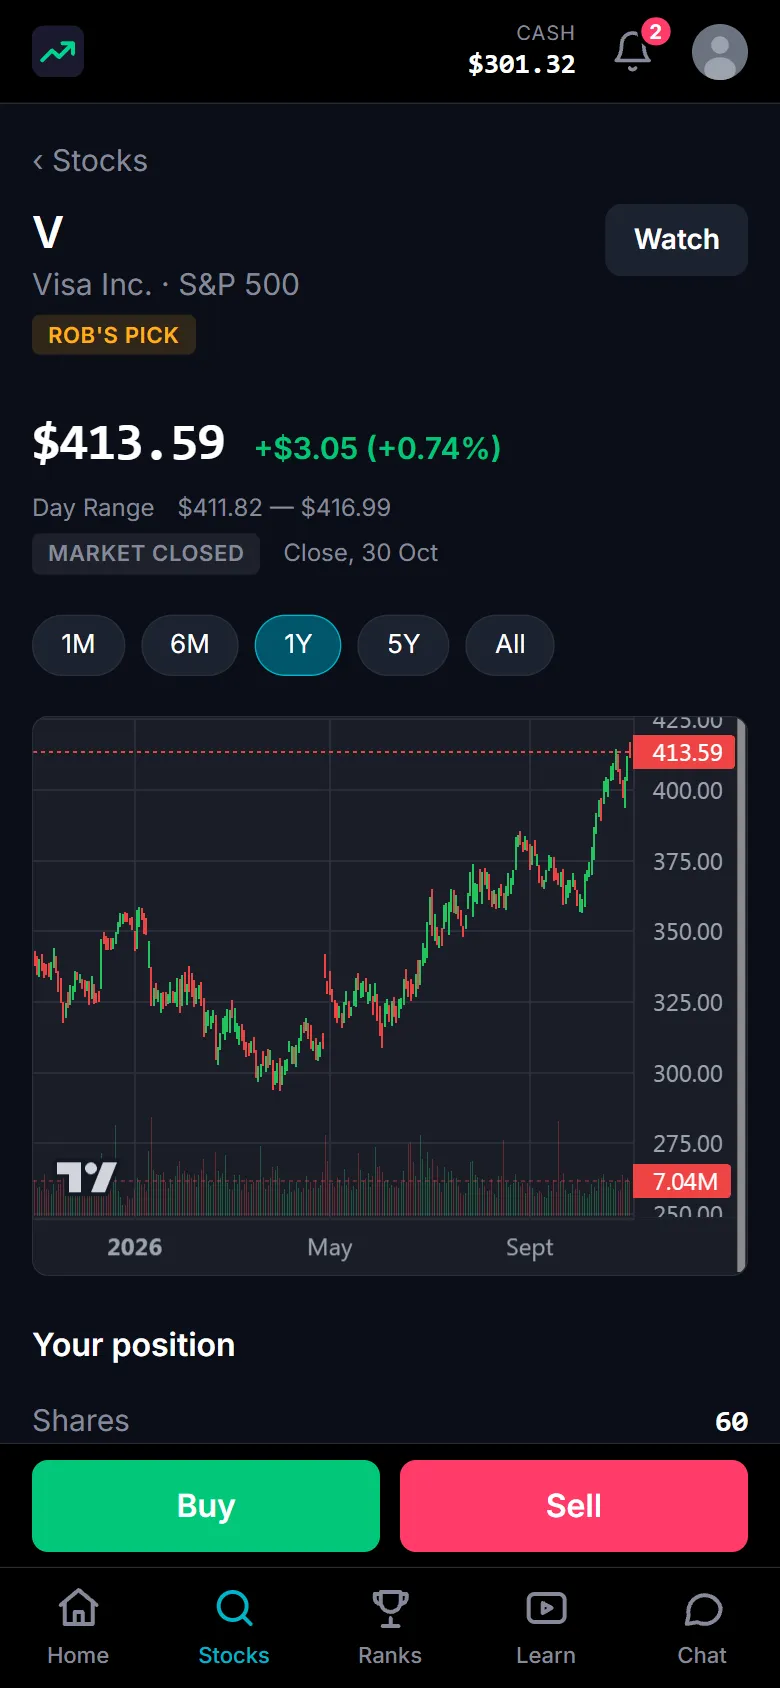
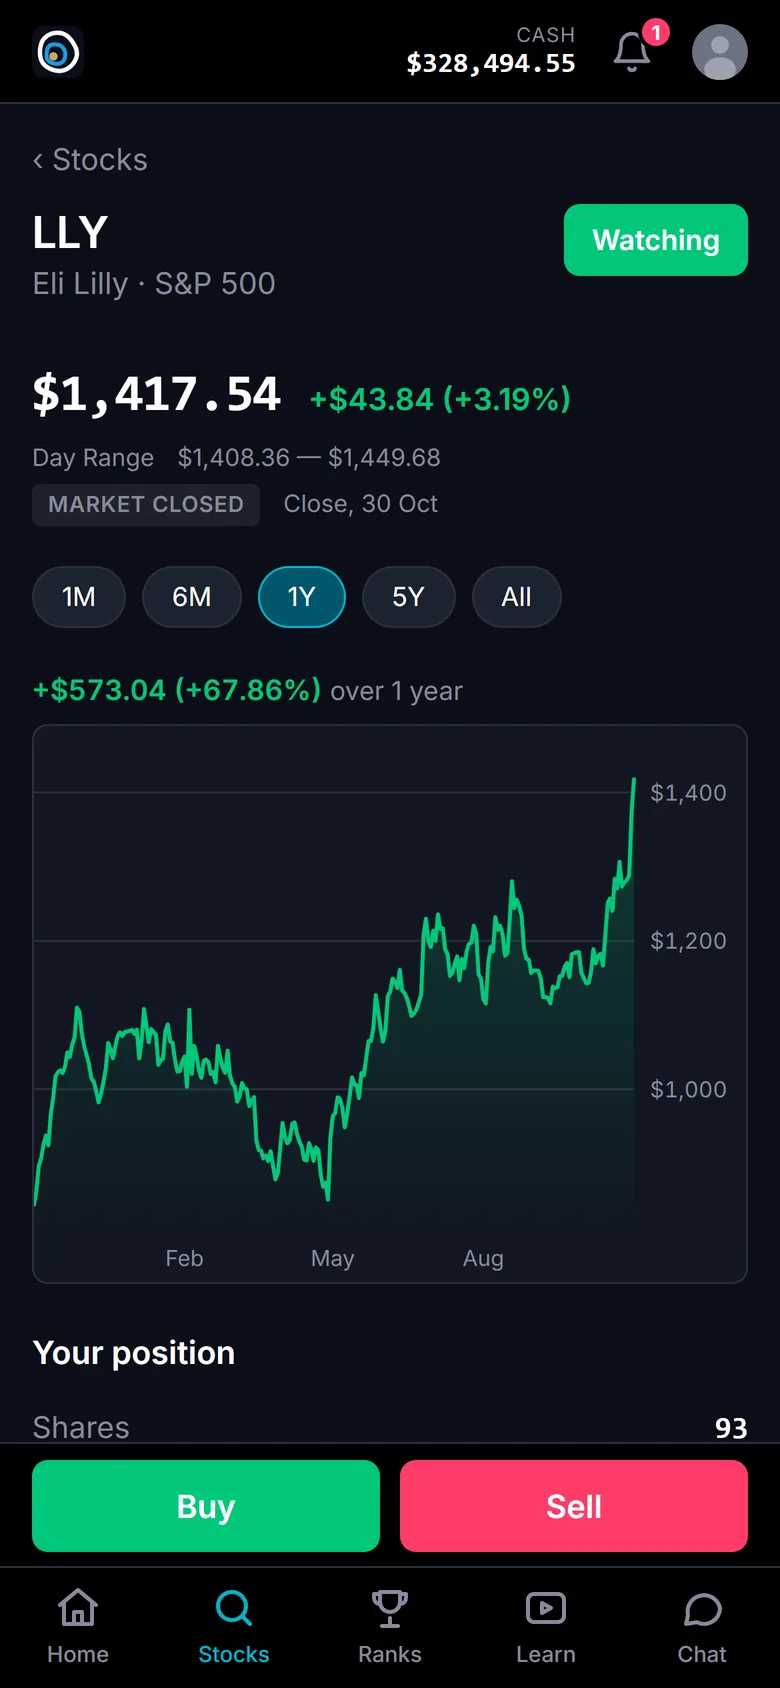
Add a link preview card and new sign-in screenshots
- Link previews: a 1200x630 card (docs/brand/og.html, rendered to
  static/img/og.jpg by render-og.ps1), with a page description, Open Graph
  and X card tags in base.html. absURL makes og:image a full URL from
  BASE_URL. A shared link to the sign-in page is titled just
  "The Investor Project".
- Sign-in page: the two phone screenshots showed the old logo and the
  candle chart; replaced with the tour video's current screens.

diff --git a/docs/brand/og.html b/docs/brand/og.html
@@ -1,0 +1,71 @@
+<!DOCTYPE html>
+<!-- The link preview card (og:image), 1200 x 630. render-og.ps1 screenshots
+     it into static/img/og.jpg. The wording follows the sign-in page's hero. -->
+<html lang="en">
+<head>
+<meta charset="UTF-8">
+<style>
+  @font-face {
+    font-family: "Inter";
+    font-weight: 100 900;
+    src: url("../../static/fonts/inter-latin-var-5.2.8.woff2") format("woff2");
+  }
+  * { margin: 0; padding: 0; box-sizing: border-box; }
+  html, body { width: 1200px; height: 630px; overflow: hidden; }
+  body {
+    position: relative;
+    background: radial-gradient(900px 600px at 85% 30%, #0f2347 0%, #0A0E17 60%);
+    color: #fff;
+    font-family: "Inter", sans-serif;
+  }
+  .chart { position: absolute; left: 0; right: 0; bottom: 0; width: 1200px; height: 300px; }
+  .chart .line { fill: none; stroke: #02C77A; stroke-width: 5; stroke-linejoin: round; stroke-linecap: round; opacity: .55; }
+  .chart .candles path { stroke: #2a3346; stroke-width: 3; }
+  .chart .candles rect { fill: #1b2333; }
+  .mark { position: absolute; right: 96px; top: 92px; width: 340px; height: 340px; }
+  .text { position: absolute; left: 80px; top: 92px; width: 680px; }
+  .tag { font-size: 26px; font-weight: 600; letter-spacing: .14em; text-transform: uppercase; color: #199ce4; }
+  h1 { margin-top: 18px; font-size: 84px; line-height: 1.02; font-weight: 800; letter-spacing: -0.03em; }
+  .head { margin-top: 26px; font-size: 36px; line-height: 1.25; font-weight: 600; color: #d6dae4; }
+  .head span { color: #02C77A; }
+  .facts { position: absolute; left: 80px; bottom: 70px; display: flex; gap: 18px; }
+  .fact { padding: 14px 22px; border-radius: 14px; background: rgba(17, 23, 34, .88); border: 1px solid #253047; font-size: 24px; font-weight: 600; color: #fff; }
+  .fact b { color: #02C77A; font-weight: 700; }
+  .url { position: absolute; right: 96px; bottom: 82px; font-size: 26px; font-weight: 600; color: #878A9B; }
+</style>
+</head>
+<body>
+  <svg class="chart" viewBox="0 0 1200 300" preserveAspectRatio="none" aria-hidden="true">
+    <defs>
+      <linearGradient id="fill" x1="0" y1="0" x2="0" y2="1">
+        <stop offset="0" stop-color="#02C77A" stop-opacity=".18"/>
+        <stop offset="1" stop-color="#02C77A" stop-opacity="0"/>
+      </linearGradient>
+    </defs>
+    <g class="candles">
+      <path d="M560 210v60M640 190v60M720 170v60M800 175v55M880 140v60M960 130v55M1040 100v60M1120 80v55"/>
+      <rect x="552" y="225" width="16" height="30"/><rect x="632" y="205" width="16" height="30"/>
+      <rect x="712" y="185" width="16" height="32"/><rect x="792" y="188" width="16" height="26"/>
+      <rect x="872" y="155" width="16" height="32"/><rect x="952" y="145" width="16" height="28"/>
+      <rect x="1032" y="115" width="16" height="32"/><rect x="1112" y="95" width="16" height="28"/>
+    </g>
+    <path d="M0 285L120 262L220 272L340 236L440 248L560 205L660 218L780 170L880 184L1000 120L1090 132L1200 70V300H0Z" fill="url(#fill)"/>
+    <path class="line" d="M0 285L120 262L220 272L340 236L440 248L560 205L660 218L780 170L880 184L1000 120L1090 132L1200 70"/>
+  </svg>
+
+  <img class="mark" src="mark-dark.svg" alt="">
+
+  <div class="text">
+    <p class="tag">Trade &bull; Learn &bull; Grow</p>
+    <h1>The Investor<br>Project</h1>
+    <p class="head">Build real skills.<br>Play for a <span>brighter future.</span></p>
+  </div>
+
+  <div class="facts">
+    <div class="fact"><b>$1M</b> play money</div>
+    <div class="fact">Real <b>S&amp;P 500</b> prices</div>
+    <div class="fact"><b>0%</b> real risk</div>
+  </div>
+  <p class="url">investorproject.au</p>
+</body>
+</html>

diff --git a/templates/layouts/base.html b/templates/layouts/base.html
@@ -11,6 +11,20 @@
     <link rel="apple-touch-icon" sizes="180x180" href="/static/apple-touch-icon.png">
     <link rel="manifest" href="/static/site.webmanifest">
     <meta name="theme-color" content="#000000">
+    <!-- Link previews (Facebook, WhatsApp, X, LinkedIn, iMessage). The card is
+         drawn by docs/brand/og.html; render-og.ps1 remakes it. -->
+    <meta name="description" content="A free share trading game with $1 million in play money and real S&amp;P 500 prices, plus videos, courses and live Q&amp;A with Rob Goudie of Consortium Private Wealth.">
+    <meta property="og:type" content="website">
+    <meta property="og:site_name" content="The Investor Project">
+    {{/* The sign-in page is what a shared link to the site opens, so its card
+         says only the site's name. */}}
+    <meta property="og:title" content="{{if and .Title (ne .Title "Sign in")}}{{.Title}} - {{end}}The Investor Project">
+    <meta property="og:description" content="A free share trading game with $1 million in play money and real S&amp;P 500 prices, plus videos, courses and live Q&amp;A with Rob Goudie.">
+    <meta property="og:image" content="{{absURL (asset "img/og.jpg")}}">
+    <meta property="og:image:width" content="1200">
+    <meta property="og:image:height" content="630">
+    <meta property="og:image:alt" content="The Investor Project: build real skills, play for a brighter future. $1M play money, real S&amp;P 500 prices, 0% real risk.">
+    <meta name="twitter:card" content="summary_large_image">
     <!-- Inter is served from here and preloaded, so it's in place before the
          first paint and text never changes width as it arrives. The
          @font-face is inline so its URL carries the same hash as the preload. -->

diff --git a/internal/handler/templates.go b/internal/handler/templates.go
@@ -5,6 +5,7 @@ import (
 	"fmt"
 	"html/template"
 	"io/fs"
+	"os"
 	"path"
 	"strings"
 	"time"
@@ -46,6 +47,15 @@ func RegisterAvatarPath(id int64, path string) {
 func LoadTemplates(fsys fs.FS, static *Static) (PageTemplates, error) {
 	funcMap := template.FuncMap{
 		"asset": static.URL,
+		// absURL turns a site path into a full URL, for tags read off the
+		// site (og:image), where a relative path doesn't work.
+		"absURL": func(p string) string {
+			base := strings.TrimRight(os.Getenv("BASE_URL"), "/")
+			if base == "" {
+				base = "https://investorproject.au"
+			}
+			return base + p
+		},
 		"cents": func(v any) string {
 			switch val := v.(type) {
 			case int64:

diff --git a/CLAUDE.md b/CLAUDE.md
@@ -2,7 +2,7 @@
 
 **Path:** `C:\Projects\go\game`
 **Purpose:** The Investor Project (called StockGame until 2026-10-30, then The Wealth Lab until 2026-11-09, dropped because a Melbourne financial planner trades as "Wealthlab"): Rob Goudie's investing community for Consortium Private Wealth, which runs it. A monthly fantasy share game (players get $1M to invest in S&P 500 stocks, plus Australian and overseas companies listed in the US; ASX is out until its licence is sorted), plus Learn (videos, live streams, Ask Rob). In player-facing text the site is "The Investor Project" (never "a Investor Project": "an Investor Project account") and the game is "the share game". The site is at **`https://investorproject.au`** since 2026-11-09 (bought at VentraIP, registrant Consortium Private Wealth Pty Ltd; Cloudflare zone `ccb1045f917711fb8064bb4a58bf7f70`). `thewealthlab.au` and `www.investorproject.au` 308-redirect to it, path kept (Caddy, as in `scripts/server-setup.sh`), so keep thewealthlab.au registered. Email sends from `hello@investorproject.au` (SES identity with DKIM and MAIL FROM `ses.investorproject.au`; IAM policy `stockgame-ses-send` v4 also still allows `hello@thewealthlab.au`); Fastmail receives the domain's mail. The load test refuses both domains. The S3 bucket keeps its `thewealthlab-backups` name. `game.mchugh.au` was retired with no redirect, and there's no `www`. The repo, systemd service and app directory are still `game`.
-**Logo** (`docs/brand/`): off-centre tree rings (Rob picked variant B on 2026-11-09), navy `#002664` and blue `#199ce4` from Consortium's logo, ochre `#D9A064` pith. Centred rings read as a bullseye and look like Target's logo, so keep them off-centre. `node docs/brand/logo.mjs` writes the master SVGs and `static/favicon.svg` (the small one-ring cut, also the nav's mark); `pwsh docs/brand/render-icons.ps1` then renders the PNG icons and `favicon.ico` with headless Chrome.
+**Logo** (`docs/brand/`): off-centre tree rings (Rob picked variant B on 2026-11-09), navy `#002664` and blue `#199ce4` from Consortium's logo, ochre `#D9A064` pith. Centred rings read as a bullseye and look like Target's logo, so keep them off-centre. `node docs/brand/logo.mjs` writes the master SVGs and `static/favicon.svg` (the small one-ring cut, also the nav's mark); `pwsh docs/brand/render-icons.ps1` then renders the PNG icons and `favicon.ico` with headless Chrome. The link preview card (`og:image` and the other share tags in `layouts/base.html`, 10 November 2026) is `docs/brand/og.html`; `pwsh docs/brand/render-og.ps1` renders it to `static/img/og.jpg` (JPEG, about 90 KB: WhatsApp drops preview images much over 300 KB). The sign-in page's two phone screenshots (`static/img/shot-*.webp`) are the tour video's `05_stocks` and `07_stock` screens (`.local/video/screens`), scaled to 780 × 1688.
 
 ### Stack
 - Go 1.26 / Chi router / htmx 4 / SQLite (modernc.org/sqlite) / sqlc / Go html/template
